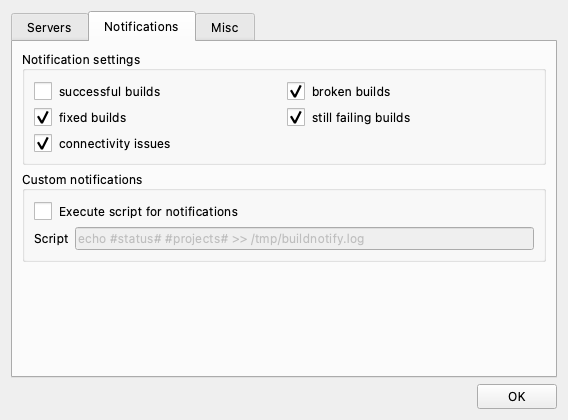
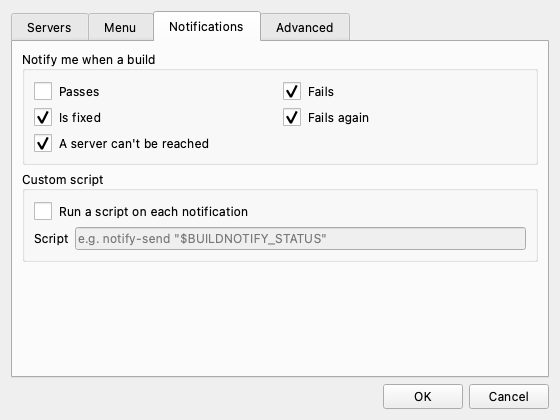
Render a screenshot per Preferences tab

diff --git a/scripts/screenshots.py b/scripts/screenshots.py
@@ -106,7 +106,7 @@ def empty_tray_menu(icons: BuildIcons) -> None:
 def preferences(settings: AppSettings) -> None:
     dialog = PreferencesDialog(settings, HttpConnection())
     dialog.resize(560, 420)
-    for index, name in enumerate(["servers.png", "notifications.png", "misc.png"]):
+    for index, name in enumerate(["servers.png", "menu.png", "notifications.png", "advanced.png"]):
         dialog.tabs.setCurrentIndex(index)
         dialog.tabs.currentWidget().adjustSize()
         dialog.grab().save(str(OUT / name))
